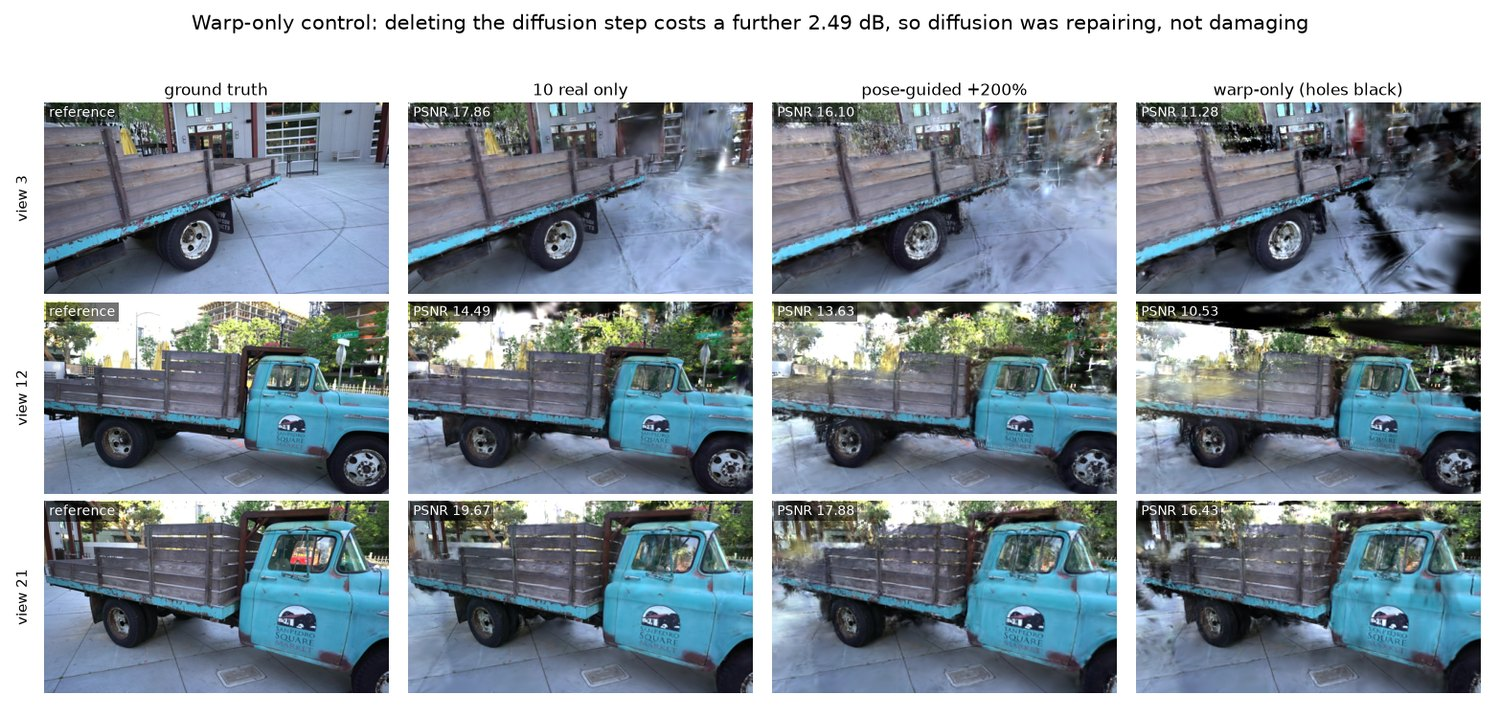
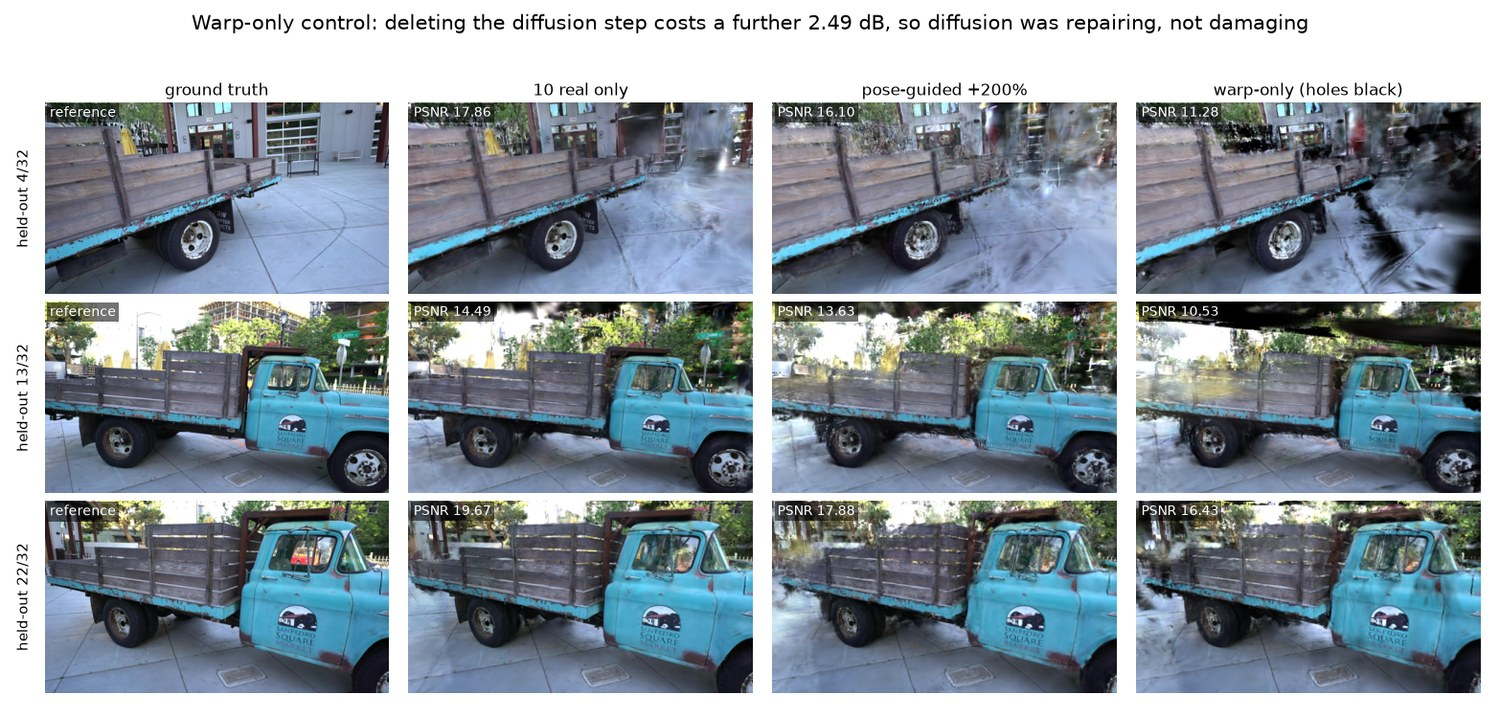
Choose panel views by their effect, not by their index
panel_strategies drew held-out views 3, 12 and 21, fixed since the study was
only k=10. Per-view deltas scatter several dB around means worth tenths, so
fixed indices can rank a figure against its own caption: pose-guided beats
outpainting on 6 of the 32 held-out cameras while losing by 1.07 dB on
average, and two of those six were in the figure.

Both remaining fixed-view panels now use representative_views, which the
other panels already had, and print each cell delta against the baseline so
columns cannot be ranked by eye off a bare PSNR. representative_views moves
into make_panels, the base module, because make_panels_extra already imports
it and mutates its globals - importing back the other way was circular.

Row labels say "held-out 17/32" rather than "view 17". The old form reads as
a photograph number, and photographs 3, 12 and 21 are all in the training
pool, which invites exactly the wrong conclusion about the split.

diff --git a/src/make_panels.py b/src/make_panels.py
@@ -28,7 +28,6 @@ OUT = ROOT / "results"
 OUT.mkdir(parents=True, exist_ok=True)
 ITER = 7000
 SEED = 0
-VIEWS = [3, 12, 21]          # a few spread through the 32 held-out cameras
 
 
 def render_dir(tag):
@@ -82,25 +81,81 @@ def grid(rows, col_titles, path, suptitle, row_labels=None):
     print(f"wrote {path}")
 
 
+def representative_views(pairs, n=3, pool=32):
+    """Pick views that behave like the average, and say so in the caption.
+
+    Per-view effects scatter far more widely than the mean: at k=20 the 200%
+    condition is worth -0.618 dB averaged over the held-out set, yet individual
+    cameras range from roughly -3 to +2. Three views chosen arbitrarily can
+    therefore contradict the very finding the figure is illustrating, which is
+    worse than useless in a report.
+
+    `pairs` is a list of (augmented_tag, baseline_tag). For each candidate view
+    we score how far its deltas sit from the mean delta of each pair, and keep
+    the views with the smallest total deviation - the least misleading
+    illustration of a result that is itself an average.
+    """
+    means = []
+    for aug, base in pairs:
+        ds = [psnr_of(aug, i) - psnr_of(base, i) for i in range(pool)
+              if psnr_of(aug, i) is not None and psnr_of(base, i) is not None]
+        means.append(sum(ds) / len(ds) if ds else 0.0)
+
+    scored = []
+    for i in range(pool):
+        err = 0.0
+        ok = True
+        for (aug, base), mu in zip(pairs, means):
+            pa, pb = psnr_of(aug, i), psnr_of(base, i)
+            if pa is None or pb is None:
+                ok = False
+                break
+            err += abs((pa - pb) - mu)
+        if ok:
+            scored.append((err, i))
+    scored.sort()
+    return sorted(i for _, i in scored[:n])
+
+
+def _cells(cols, views, base):
+    """One row per view, one column per condition, delta printed on each cell.
+
+    A bare PSNR invites the reader to rank columns by eye across rows, which
+    is exactly how three views can be read against the finding they
+    illustrate. The delta against the baseline is the number that matters.
+    """
+    rows, labels = [], []
+    for v in views:
+        row = []
+        for title, tag in cols:
+            if tag is None:
+                row.append((load(base, v, "gt"), "reference"))
+                continue
+            p = psnr_of(tag, v)
+            sub = f"PSNR {p:.2f}" if p is not None else ""
+            if tag != base and p is not None:
+                pb = psnr_of(base, v)
+                if pb is not None:
+                    sub += f"   {p - pb:+.2f}"
+            row.append((load(tag, v), sub))
+        rows.append(row)
+        # index into the 32 held-out cameras, NOT a photograph number
+        labels.append(f"held-out {v + 1}/32")
+    return rows, labels
+
+
 def panel_strategies():
     base = f"truck_k10_seed{SEED}_fps_fake0"
     cols = [("ground truth", None), ("10 real only", base)]
     for s in ("inpaint", "outpaint", "guided"):
         cols.append((s + "  +10 fake", f"truck_k10_seed{SEED}_fps_{s}_fake10"))
 
-    rows, labels = [], []
-    for v in VIEWS:
-        row = []
-        for title, tag in cols:
-            if tag is None:
-                row.append((load(base, v, "gt"), "reference"))
-            else:
-                p = psnr_of(tag, v)
-                row.append((load(tag, v), f"PSNR {p:.2f}" if p else ""))
-        rows.append(row)
-        labels.append(f"view {v}")
+    views = representative_views([(c[1], base) for c in cols[2:]])
+    rows, labels = _cells(cols, views, base)
     grid(rows, [c[0] for c in cols], OUT / "panel_strategies.png",
-         f"Held-out renderings at 100% synthetic ratio (truck, k=10, seed {SEED})",
+         f"Held-out renderings at 100% synthetic ratio (truck, k=10, seed {SEED}). "
+         f"Views closest to the mean effect;\nthe number under each cell is "
+         f"that view's difference from the 10-real baseline.",
          labels)
 
 
@@ -110,17 +165,8 @@ def panel_ratio(strategy):
     for n in (2, 5, 10, 20):
         cols.append((f"{n} fake ({n*10}%)",
                      f"truck_k10_seed{SEED}_fps_{strategy}_fake{n}"))
-    rows, labels = [], []
-    for v in VIEWS:
-        row = []
-        for title, tag in cols:
-            if tag is None:
-                row.append((load(base, v, "gt"), "reference"))
-            else:
-                p = psnr_of(tag, v)
-                row.append((load(tag, v), f"PSNR {p:.2f}" if p else ""))
-        rows.append(row)
-        labels.append(f"view {v}")
+    views = representative_views([(c[1], base) for c in cols[2:]])
+    rows, labels = _cells(cols, views, base)
     grid(rows, [c[0] for c in cols], OUT / f"panel_ratio_{strategy}.png",
          f"{strategy}: increasing synthetic ratio (truck, k=10, seed {SEED})",
          labels)

diff --git a/src/make_panels_extra.py b/src/make_panels_extra.py
@@ -25,7 +25,8 @@ import os
 from pathlib import Path
 
 import make_panels
-from make_panels import OUT, SEED, grid, load, psnr_of
+from make_panels import (OUT, SEED, grid, load, psnr_of,
+                         representative_views)
 
 from contextlib import contextmanager
 
@@ -80,44 +81,9 @@ def cells(cols, views, gt_from, deltas_vs=None):
                     sub += f"   {p - pb:+.2f}"
             row.append((load(tag, v), sub))
         rows.append(row)
-        labels.append(f"view {v}")
+        # index into the 32 held-out cameras, NOT a photograph number
+        labels.append(f"held-out {v + 1}/32")
     return rows, labels
-
-
-def representative_views(pairs, n=3, pool=32):
-    """Pick views that behave like the average, and say so in the caption.
-
-    Per-view effects scatter far more widely than the mean: at k=20 the 200%
-    condition is worth -0.618 dB averaged over the held-out set, yet individual
-    cameras range from roughly -3 to +2. Three views chosen arbitrarily can
-    therefore contradict the very finding the figure is illustrating, which is
-    worse than useless in a report.
-
-    `pairs` is a list of (augmented_tag, baseline_tag). For each candidate view
-    we score how far its deltas sit from the mean delta of each pair, and keep
-    the views with the smallest total deviation - the least misleading
-    illustration of a result that is itself an average.
-    """
-    means = []
-    for aug, base in pairs:
-        ds = [psnr_of(aug, i) - psnr_of(base, i) for i in range(pool)
-              if psnr_of(aug, i) is not None and psnr_of(base, i) is not None]
-        means.append(sum(ds) / len(ds) if ds else 0.0)
-
-    scored = []
-    for i in range(pool):
-        err = 0.0
-        ok = True
-        for (aug, base), mu in zip(pairs, means):
-            pa, pb = psnr_of(aug, i), psnr_of(base, i)
-            if pa is None or pb is None:
-                ok = False
-                break
-            err += abs((pa - pb) - mu)
-        if ok:
-            scored.append((err, i))
-    scored.sort()
-    return sorted(i for _, i in scored[:n])
 
 
 def panel_crossover():
